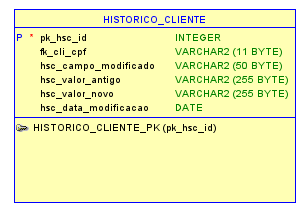
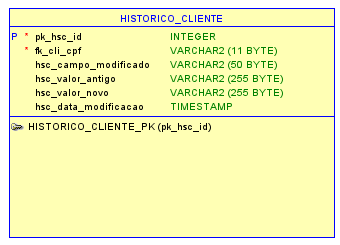
sql: created triggers and historic tables for restaurante and cliente

Changed region(s): [[0.0, 0.028, 1.0, 0.9813], [0.6492, 0.6168, 0.6787, 0.6449]]

diff --git a/java/ProjetoRestaurante/src/application/Programa.java b/java/ProjetoRestaurante/src/application/Programa.java
@@ -35,5 +35,8 @@ public class Programa {
 		//Instanciação do menu principal para o início da aplicação
 		MenuPrincipal mn = new MenuPrincipal(conn, sc);
 		mn.mostrar();
+		
+		//fecha o scanner ao término de execução da aplicação
+		sc.close();
 	}
 }